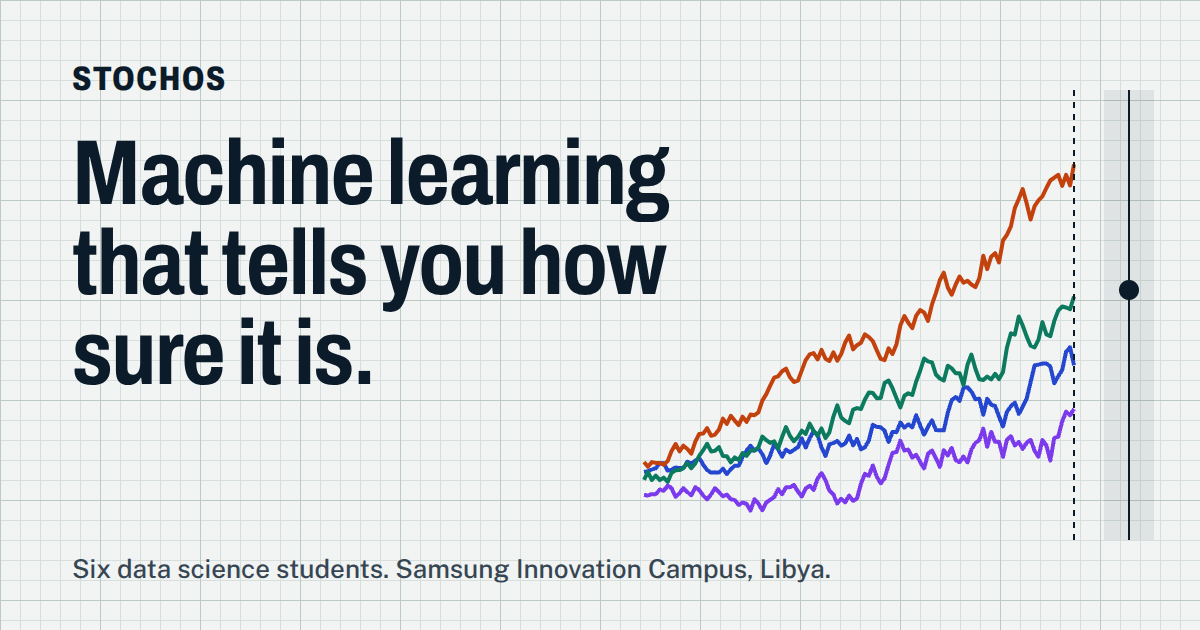
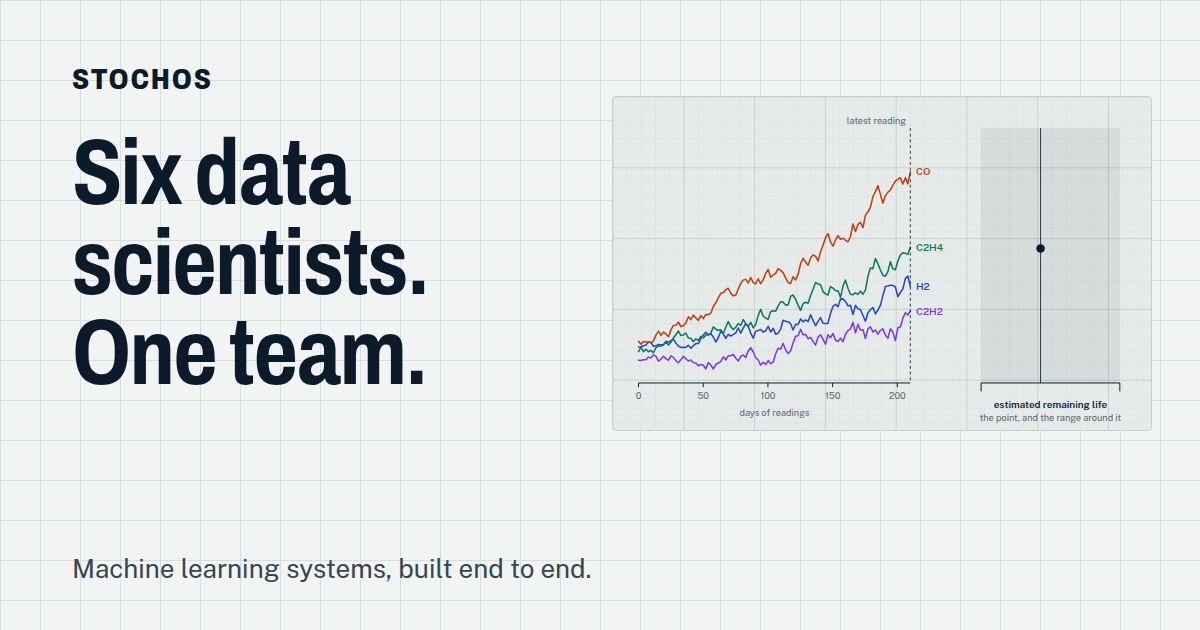
Present the team as data scientists: remove student and course wording, new share picture
Claude-Session: https://claude.ai/code/session_01TVmrjzqzfnTtP7j1TZAX7R

diff --git a/index.html b/index.html
@@ -3,14 +3,14 @@
 <head>
   <meta charset="utf-8">
   <meta name="viewport" content="width=device-width, initial-scale=1">
-  <title>STOCHOS: six data science students</title>
+  <title>STOCHOS: data science and machine learning</title>
   <meta name="description" content="STOCHOS is a data science team of six in Libya. We build machine learning systems end to end, and every prediction comes with a measure of confidence.">
   <link rel="canonical" href="https://stochos.dev/">
   <link rel="icon" href="img/favicon.svg" type="image/svg+xml">
   <meta name="theme-color" content="#0c1b29">
   <meta property="og:type" content="website">
   <meta property="og:site_name" content="STOCHOS">
-  <meta property="og:title" content="STOCHOS: six data science students">
+  <meta property="og:title" content="STOCHOS: data science and machine learning">
   <meta property="og:description" content="A data science team of six in Libya, building machine learning systems end to end.">
   <meta property="og:url" content="https://stochos.dev/">
   <meta property="og:image" content="https://stochos.dev/img/og.png">
@@ -50,7 +50,7 @@
       <div class="wrap">
         <div class="hero-text">
           <p class="eyebrow">Data science team</p>
-          <h1>Six data science students.<br> One team.</h1>
+          <h1>Six data scientists.<br> One team.</h1>
           <p class="lead">We build machine learning systems end to end: data preparation, modelling, validation and deployment. Every prediction we deliver comes with a measure of how confident it is.</p>
           <div class="actions">
             <a class="btn btn-primary" href="#team">Meet the team</a>
@@ -87,7 +87,7 @@
 
   <footer class="site-footer">
     <div class="wrap">
-      <p>&copy; <span id="year">2026</span> STOCHOS. A student team. This is not an official Samsung website.</p>
+      <p>&copy; <span id="year">2026</span> STOCHOS. This is not an official Samsung website.</p>
       <p><a href="projects.html">Projects</a><a href="account.html">Team sign-in</a></p>
     </div>
   </footer>

diff --git a/js/data.js b/js/data.js
@@ -43,11 +43,11 @@ window.STOCHOS = {
       details: [
         { heading: "The problem",
           text: "Power transformers are expensive, and when one fails without warning the power goes out. As a transformer develops a fault, its oil breaks down and releases gases. Engineers read those gases to spot trouble early, but the readings take expert judgement." },
-        { heading: "What we built",
+        { heading: "The solution",
           text: "Two neural networks that read 210 days of gas measurements (four gases, one reading every 12 hours). One names the fault: normal, partial discharge, low-energy discharge or low-temperature overheating. The other estimates remaining life in days, with a range. A web app lets anyone upload a transformer's readings and see both answers, along with how sure the models are." },
-        { heading: "What we found",
+        { heading: "Results",
           text: "On 900 transformers held back until the end, the fault diagnosis was right about 95% of the time, and the life estimate was off by about 40 days on average. About 9 in 10 estimates fell inside the stated range. Predictions the model is unsure about are flagged for a person to review." },
-        { heading: "Where it falls short",
+        { heading: "Limitations",
           text: "It was trained on one public dataset, so it needs testing on real transformers before anyone relies on it. The life estimate is less precise for transformers with a long time left, and it is a decision aid, not a replacement for an engineer's judgement." }
       ]
     }

diff --git a/tools/og.html b/tools/og.html
@@ -1,0 +1,18 @@
+<!doctype html><html lang="en" data-theme="light"><head><meta charset="utf-8">
+<link rel="stylesheet" href="../css/site.css">
+<style>
+  html,body{margin:0;width:1200px;height:630px;overflow:hidden}
+  body{background-color:var(--paper);background-image:linear-gradient(var(--grid) 1px,transparent 1px),linear-gradient(90deg,var(--grid) 1px,transparent 1px);background-size:40px 40px;position:relative}
+  .brand-og{position:absolute;left:72px;top:64px;font:800 30px/1 var(--font-display);font-stretch:80%;letter-spacing:.06em;color:var(--ink)}
+  h1{position:absolute;left:72px;top:128px;width:500px;font-size:92px;line-height:.98;margin:0}
+  .sub{position:absolute;left:72px;bottom:44px;font:400 26px/1.3 var(--font-body);color:var(--ink-2);margin:0;max-width:none}
+  #gas-chart{position:absolute;right:48px;top:96px;width:540px}
+  #gas-chart svg{display:block;width:100%;height:auto;background:var(--paper-2);border:1px solid var(--line);border-radius:4px}
+</style></head><body>
+<div class="brand-og">STOCHOS</div>
+<h1>Six data<br>scientists.<br>One team.</h1>
+<p class="sub">Machine learning systems, built end to end.</p>
+<div id="gas-chart"></div>
+<script>window.STOCHOS={};</script>
+<script src="../js/site.js"></script>
+</body></html>

diff --git a/profile.html b/profile.html
@@ -4,7 +4,7 @@
   <meta charset="utf-8">
   <meta name="viewport" content="width=device-width, initial-scale=1">
   <title>Profile | STOCHOS</title>
-  <meta name="description" content="A member of STOCHOS, a team of six data science students.">
+  <meta name="description" content="A member of STOCHOS, a data science and machine learning team.">
   <meta property="og:type" content="profile">
   <meta property="og:site_name" content="STOCHOS">
   <link rel="icon" href="img/favicon.svg" type="image/svg+xml">
@@ -50,7 +50,7 @@
 
   <footer class="site-footer">
     <div class="wrap">
-      <p>&copy; <span id="year">2026</span> STOCHOS. A student team. This is not an official Samsung website.</p>
+      <p>&copy; <span id="year">2026</span> STOCHOS. This is not an official Samsung website.</p>
       <p><a href="projects.html">Projects</a><a href="account.html">Team sign-in</a></p>
     </div>
   </footer>

diff --git a/projects.html b/projects.html
@@ -49,7 +49,7 @@
     <section class="page-head">
       <div class="wrap">
         <h1>Projects</h1>
-        <p>What we have built so far, how it works, and where it falls short.</p>
+        <p>What we have built, how it works, and where its limits are.</p>
       </div>
     </section>
     <div class="wrap" id="project-list"></div>
@@ -89,12 +89,11 @@
       </div>
     </section>
 
-    <div class="wrap more"><p>More projects will appear here as we finish them.</p></div>
   </main>
 
   <footer class="site-footer">
     <div class="wrap">
-      <p>&copy; <span id="year">2026</span> STOCHOS. A student team. This is not an official Samsung website.</p>
+      <p>&copy; <span id="year">2026</span> STOCHOS. This is not an official Samsung website.</p>
       <p><a href="projects.html">Projects</a><a href="account.html">Team sign-in</a></p>
     </div>
   </footer>

diff --git a/404.html b/404.html
@@ -57,7 +57,7 @@
 
   <footer class="site-footer">
     <div class="wrap">
-      <p>&copy; <span id="year">2026</span> STOCHOS. A student team. This is not an official Samsung website.</p>
+      <p>&copy; <span id="year">2026</span> STOCHOS. This is not an official Samsung website.</p>
       <p><a href="projects.html">Projects</a></p>
     </div>
   </footer>

diff --git a/account.html b/account.html
@@ -46,7 +46,7 @@
 
   <footer class="site-footer">
     <div class="wrap">
-      <p>&copy; <span id="year">2026</span> STOCHOS. A student team. This is not an official Samsung website.</p>
+      <p>&copy; <span id="year">2026</span> STOCHOS. This is not an official Samsung website.</p>
       <p><a href="projects.html">Projects</a></p>
     </div>
   </footer>

diff --git a/CLAUDE.md b/CLAUDE.md
@@ -33,14 +33,14 @@ Always start with `git fetch origin` and work from the latest origin/main. Ignor
 
 - js/data.js holds the content that changes: projects, the results numbers, and the team copy (see "Team sign-in" below for how the team works now).
 - Other files: index.html, projects.html, profile.html, 404.html, account.html, css/site.css (colour variables are at the top), js/site.js, fonts/, img/.
-- img/og.png (the picture shown when the site is shared) needs a browser to regenerate. Ask the owner when it needs a new one.
+- img/og.png (the picture shown when the site is shared) is made from tools/og.html: open it in a browser at 1200 x 630 with reduced motion, and take a screenshot. Remake it whenever the headline changes, and ask the owner before changing its words.
 - CNAME must stay exactly: stochos.dev
 - Update sitemap.xml when a page is added. Exception: account.html is private (noindex), so it stays out of the sitemap. Each person's profile (profile.html?u=their-slug) is listed in the sitemap; add a line when someone joins and remove it when someone leaves.
 
 ## Rules for content
 
 - The team is six equals, listed alphabetically, with no leader.
-- The site is about the team, not the project and not Samsung. The landing page is: the opening ("Six data science students. One team.", the six as small pictures that link to their profiles, and the coloured graph beside it; the owner likes that graph, so keep it), the team as six cards (photo or coloured line, name, role, introduction, links), and "Our work" as one card per project from data.js. All other project detail (results, how we work) lives on projects.html. Keep it that way.
+- The site is about the team, not the project and not Samsung. The landing page is: the opening ("Six data scientists. One team.", the six as small pictures that link to their profiles, and the coloured graph beside it; the owner likes that graph, so keep it), the team as six cards (photo or coloured line, name, role, introduction, links), and "Our work" as one card per project from data.js. All other project detail (results, how we work) lives on projects.html. Keep it that way.
 - Samsung appears in one place only: the footer line "not an official Samsung website". Do not mention Samsung, the programme or where the team met anywhere else unless the owner asks.
 - Never put text on the public pages that explains how the site itself works (for example "each person writes their own profile", "listed alphabetically", "sign in to edit"). Pages present the team and the work. The only sign-in link is in the footer. Section headings stand alone unless the owner gives the words.
 - Do not say on the pages that the team is listed alphabetically, or explain who is above whom. Keep the order alphabetical, and say nothing about it.
@@ -51,6 +51,7 @@ Always start with `git fetch origin` and work from the latest origin/main. Ignor
 - The footer must keep "not an official Samsung website".
 - No Samsung logos.
 - No emojis.
+- Present STOCHOS as an established data science and machine learning team. Never call the team students, and never mention a course, programme, class, capstone or cohort.
 - Write plainly and specifically, in a professional voice. Present the team as capable practitioners, not beginners. Never use classroom or hobby wording such as "we split the work", "we check each other's work", "we work as equals" or "we learn".
 - Load nothing from other websites. The only exceptions are the ones listed under "Team sign-in".
 - Keep both themes, the phone layout, keyboard focus and good contrast.
@@ -79,7 +80,7 @@ Profile pages:
 
 - Each person has their own page: profile.html?u=their-slug (for example profile.html?u=ahmed-elsharif). It shows their photo (or their coloured line), name, role, introduction, links, About, skills, and the rest of the team. The team cards on the home page link to it.
 - A person the owner adds who is not in js/data.js has no profile until they sign in and create it themselves. People in data.js get a starting profile when the owner saves the team list.
-- The hero says "six data science students". If the team size changes, ask the owner before changing that line.
+- The hero says "Six data scientists". If the team size changes, ask the owner before changing that line.
 
 Exceptions to "load nothing from other websites":
 
